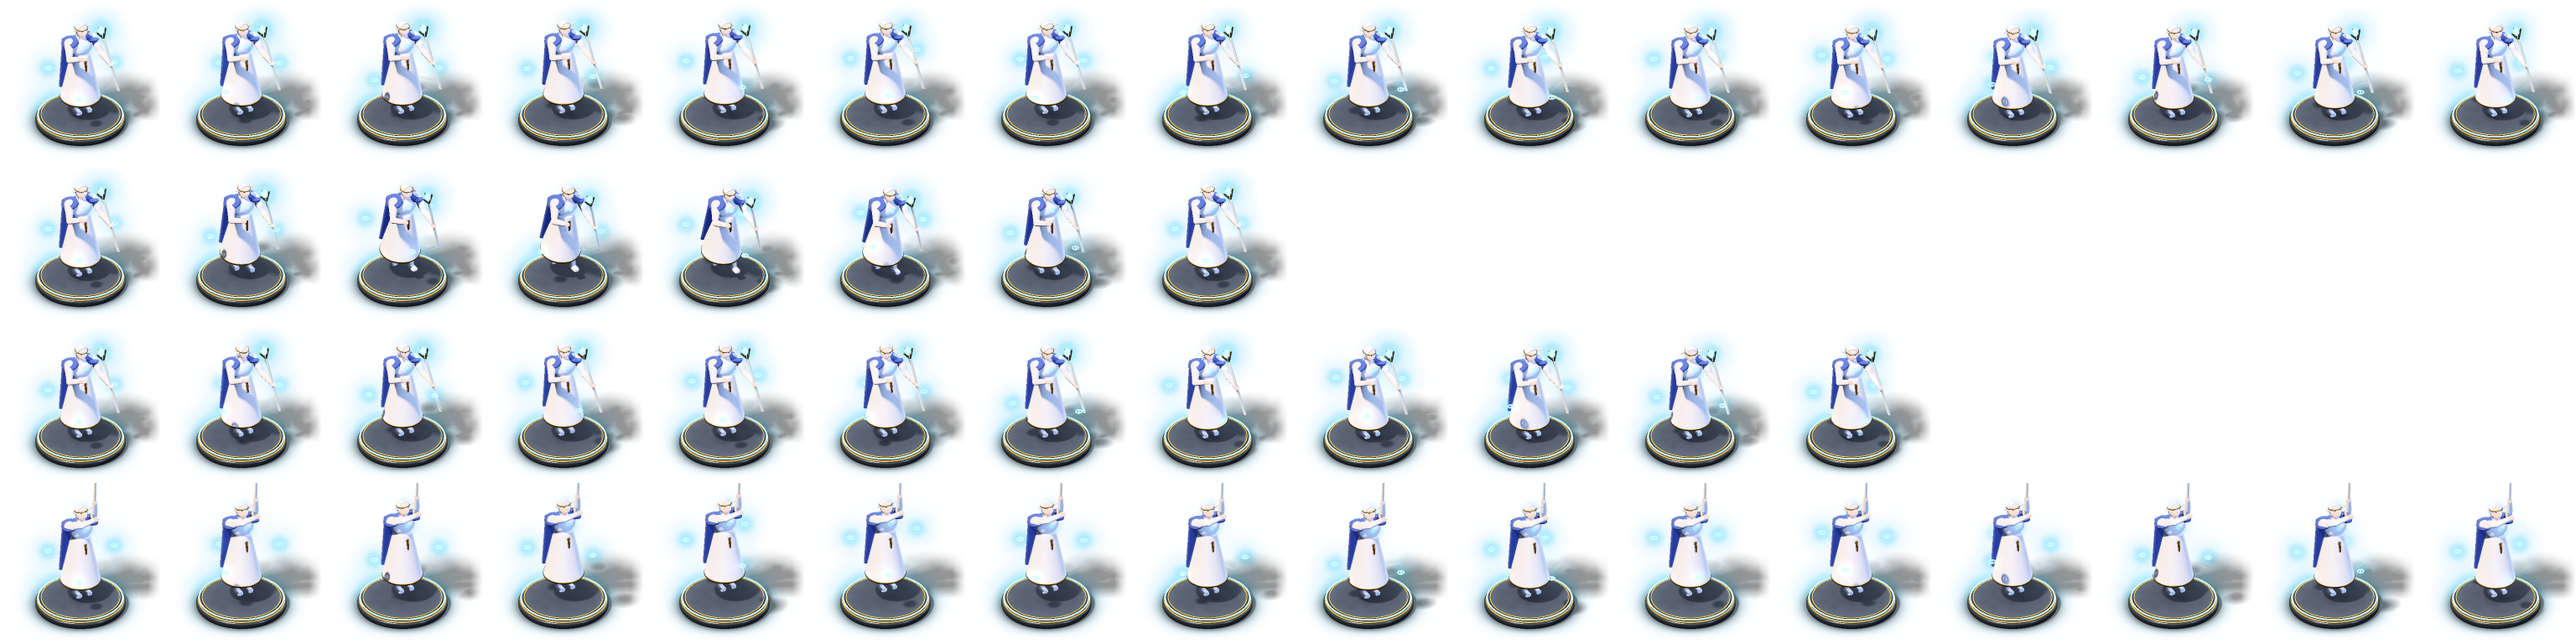
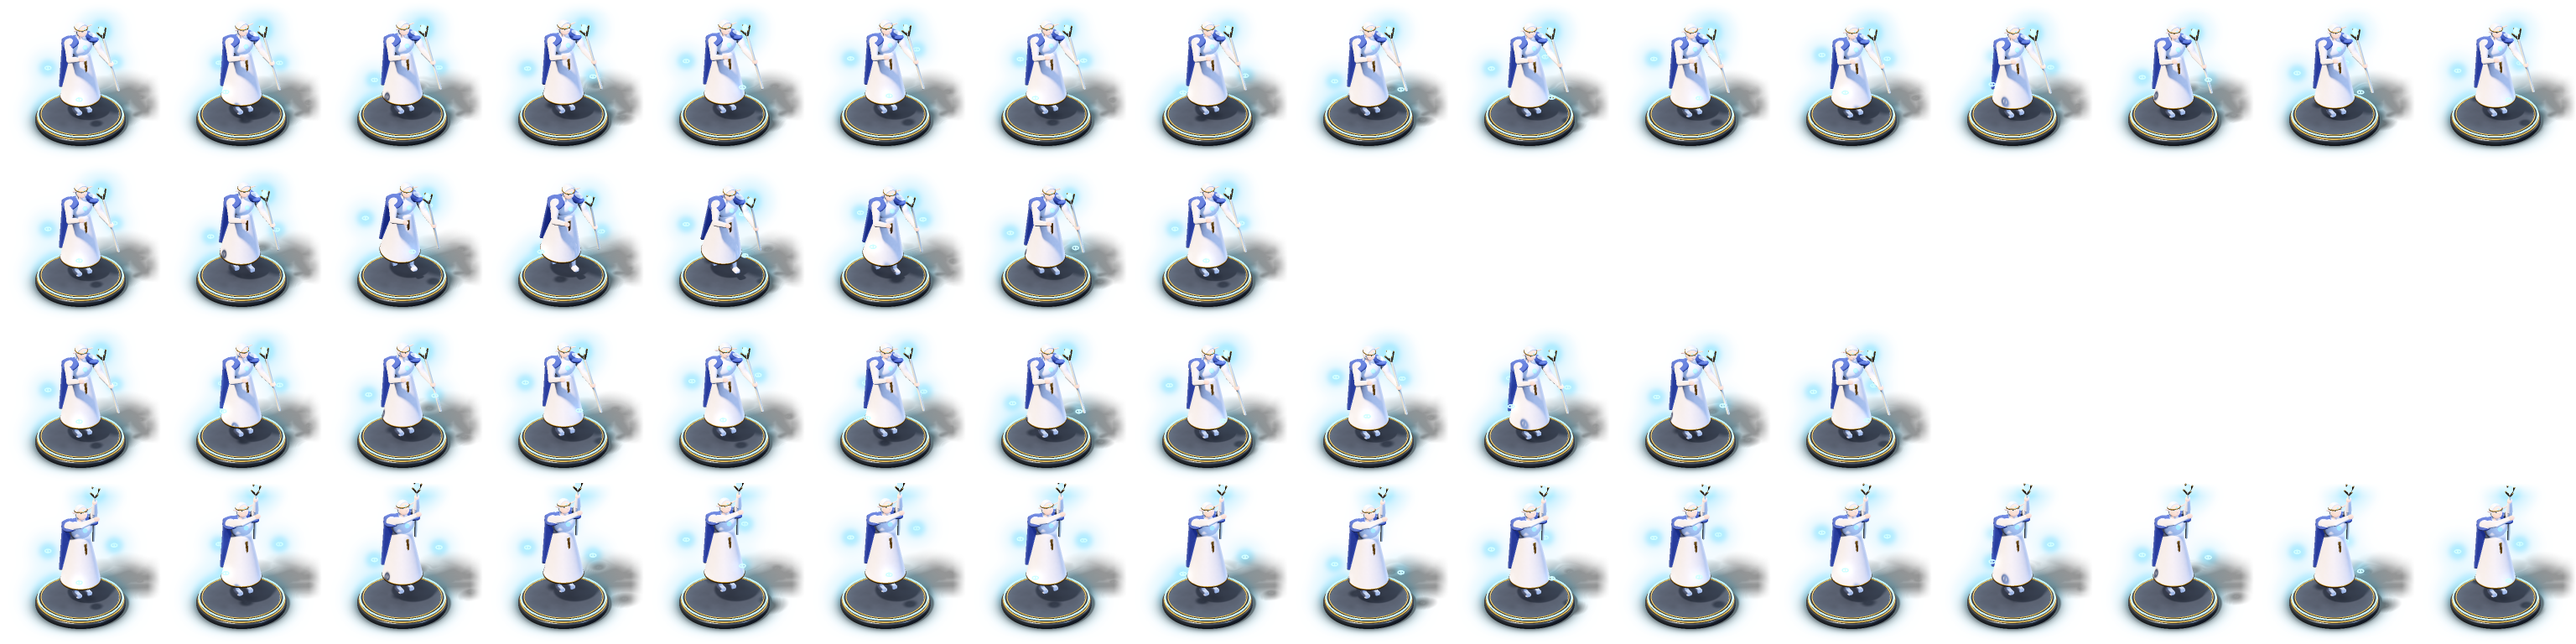
Légendes: the archmage raising his staff when he wins holds it high on the shaft (its head and crystal went out of the frame)

diff --git a/app/tools/sprites/epic.py b/app/tools/sprites/epic.py
@@ -348,6 +348,8 @@ def orc_shaman(anim, t, side):
         sc.add(sd_ellipsoid(r * 0.08, r * 0.55, r * 0.02), Mat(["#2a2a2e", "#c8c0b0", "#8a2a1a"][k], rough=0.8),
                x * T(r * 0.3 * math.sin(a), r * 0.9, -r * 0.5) * RZ(-a) * RX(-0.5) * T(0, r * 0.4, 0))
     st = held(rig["r"], -math.pi if anim == "win" else -1.55)
+    if anim == "win":                 # raised: held high on the shaft, so its head stays in the frame
+        st = st * T(0, -0.3, 0)
     sc.add(sd_capsule((0, -0.42, 0), (0, 0.42, 0), 0.013), wood("#3a2818"), st)
     sk_x = st * T(0, 0.48, 0)
     bone = Mat("#e2d6b8", rough=0.5)
@@ -518,6 +520,8 @@ def archmage(anim, t, side):
     sc.add(sd_torus(r * 0.92, r * 0.06), gold(), x * T(0, r * 0.35, 0) * RX(0.15))
     sc.add(sd_sphere(r * 0.12), glow("#8adfff", 5.0), x * T(0, r * 0.42, r * 0.9))
     st = held(rig["r"], -math.pi if anim == "win" else -1.55)
+    if anim == "win":                 # raised: held high on the shaft, so its head stays in the frame
+        st = st * T(0, -0.3, 0)
     sc.add(sd_capsule((0, -0.4, 0), (0, 0.42, 0), 0.011), Mat("#e8e2d0", rough=0.3, clearcoat=0.6), st)
     for k in range(4):
         a = TAU * k / 4
